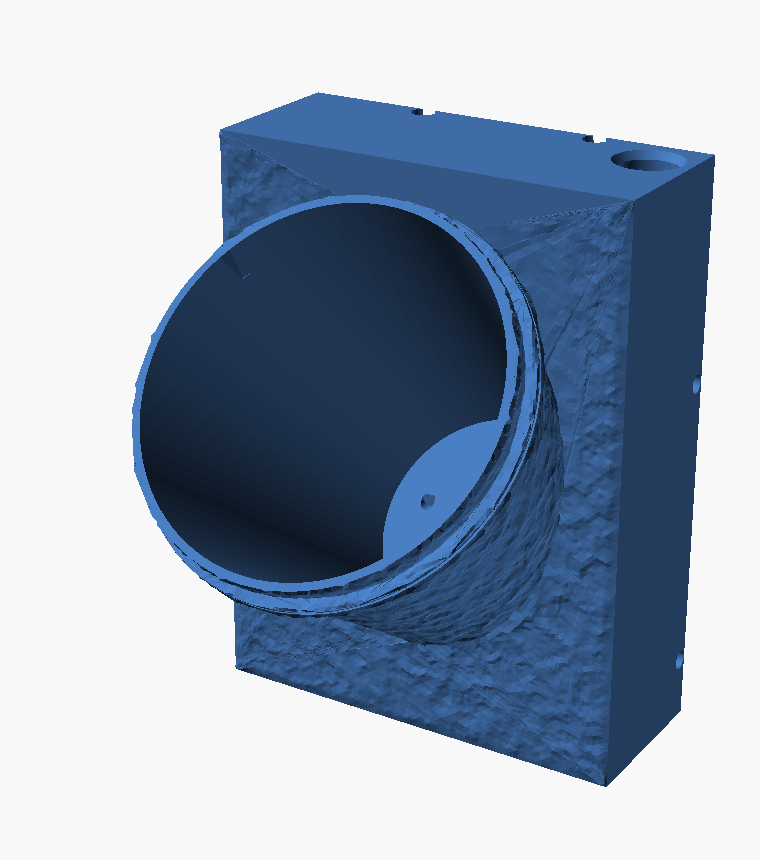
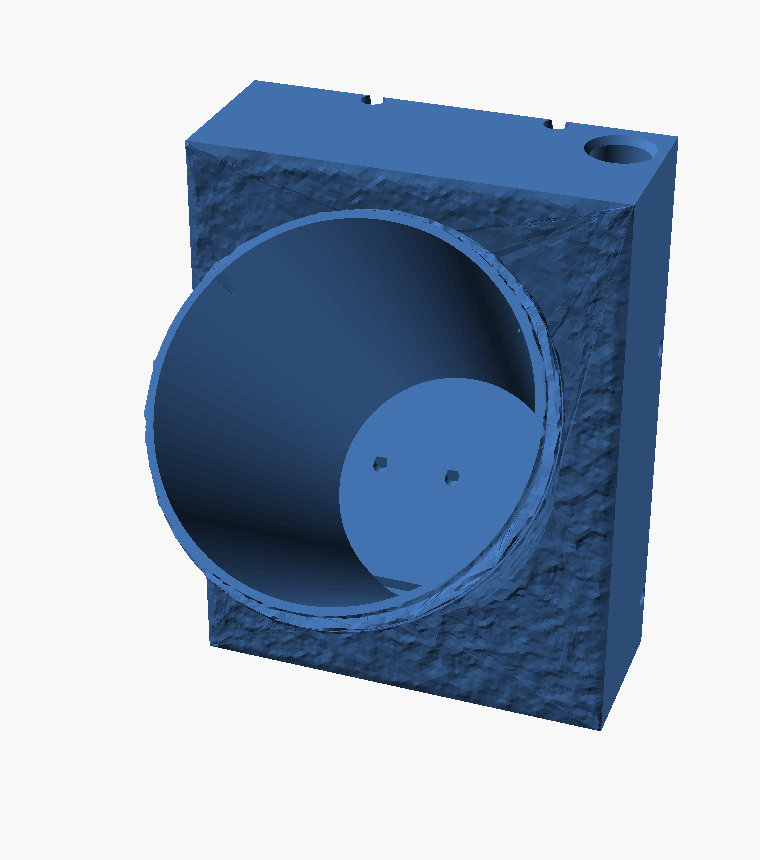
texture: fix drip-groove mask leaking across the model (smooth wedge above pot)
The groove protection window was a slab perpendicular to the pot axis
with no radial upper bound, so it sliced across the upper front panel
(z~215-227) and, with boundary feathering, left the large smooth wedge
the user circled. Bound it to the lip flange radius (r < flange+3.5mm).
Upper panel now displaces fully (median 0.7mm in the affected band).
Add tex_topband.png closeup; refresh tex_check.

https://claude.ai/code/session_01NMyyE9N8Mzdsfg5N9tnaC3

diff --git a/filesv2/texturize.py b/filesv2/texturize.py
@@ -117,9 +117,11 @@ lip_band = (_s_fc > _SEATTOP - 1.2) & (_s_fc < _SEATTOP + _LIPT + 1.2) \
            & (_r_fc > _OUTT/2 - 1.0) & (rad_out > -0.9)
 # 3) 箱体前面板
 panel = (fn[:,1] > 0.60) & (np.abs(fc[:,1] - _BOXD) < 1.5)
-# 滴水槽保护: 只罩环槽本体±0.7mm(法兰其余部分照常纹理化)
+# 滴水槽保护: 只罩环槽本体±0.7mm(法兰其余部分照常纹理化)。
+# 注意必须给 r 加上限: s∈窗口是垂直盆轴的"平板带", 不限 r 会斜穿整个模型,
+# 把盆口上方的面板也错误罩进去(实测 bug: 上面板出现成片光滑楔形)。
 groove = (_s_fc > _SEATTOP + _LIPT - _DRIPW - 1.3) & (_s_fc < _SEATTOP + _LIPT - 0.1) \
-         & (_r_fc > _OUTT/2 + _LIPW - _DRIPD - 1.2)
+         & (_r_fc > _OUTT/2 + _LIPW - _DRIPD - 1.2) & (_r_fc < _OUTT/2 + _LIPW + 3.5)
 # 顶叠合面保险(理论上不会被选到, 防参数漂移)
 not_top  = ~((fn[:,2] > 0.80) & (fc[:,2] > mod_h-12))
 textured = (cone_shell | lip_band | panel) & ~groove & not_top
